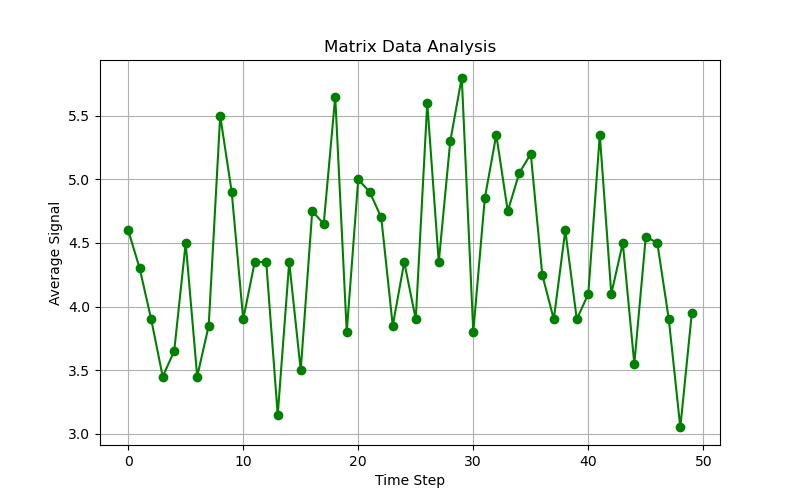
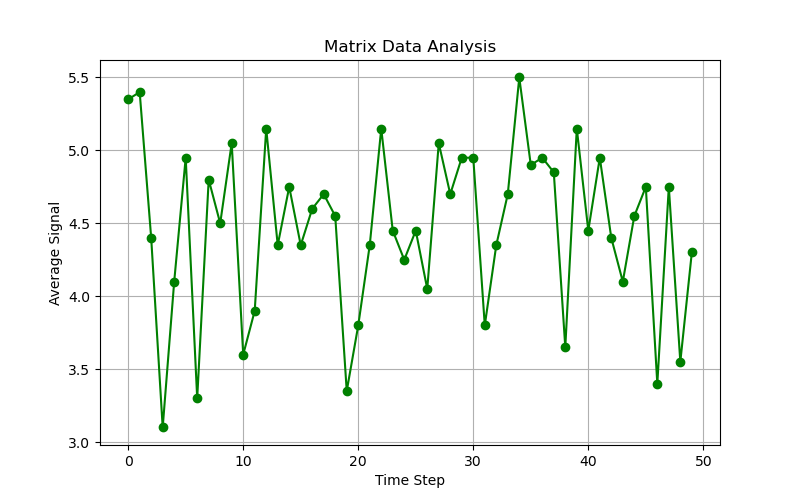
forse .toml e req

diff --git a/ex1/loading.py b/ex1/loading.py
@@ -1,6 +1,7 @@
 import importlib
 import pandas as pd
 import numpy as np
+import matplotlib
 import matplotlib.pyplot as plt
 import requests
 
@@ -15,7 +16,7 @@ def main():
     packages = {
         "pandas": pd,
         "numpy": np,
-        "matplotlib": plt,
+        "matplotlib": matplotlib,
         "requests": requests
     }
     print("Checking dependencies:")